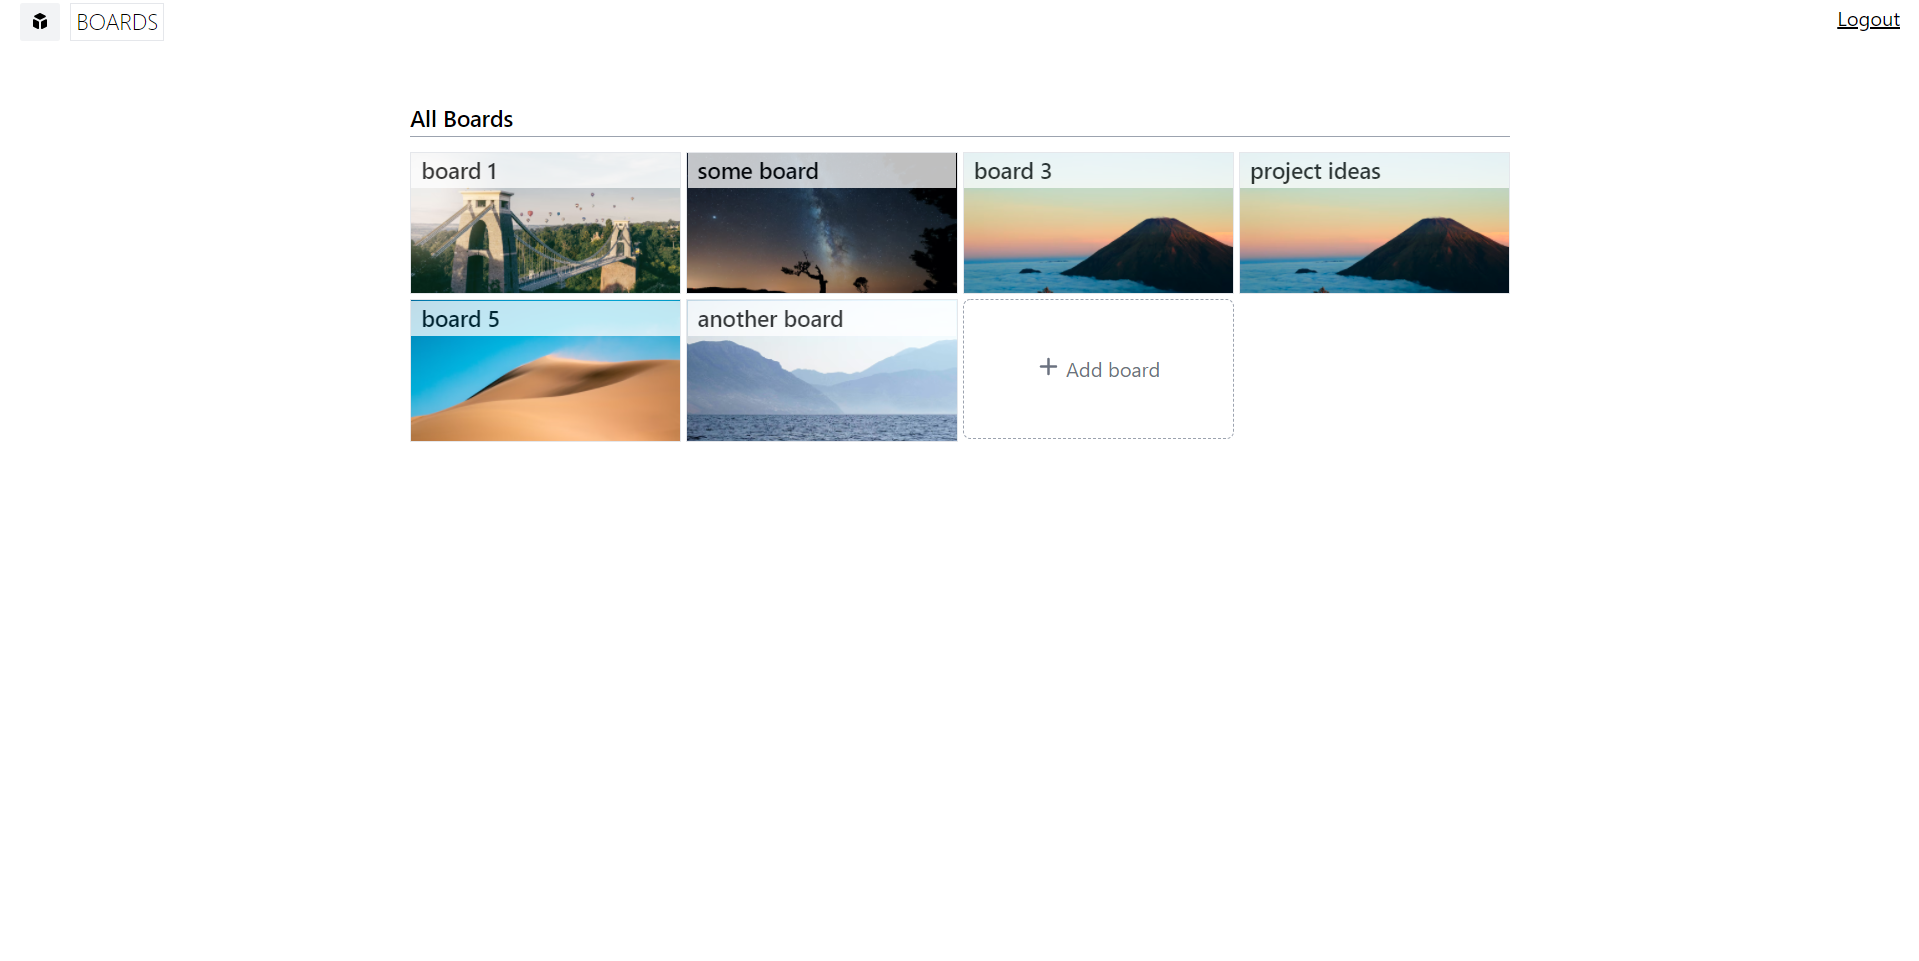
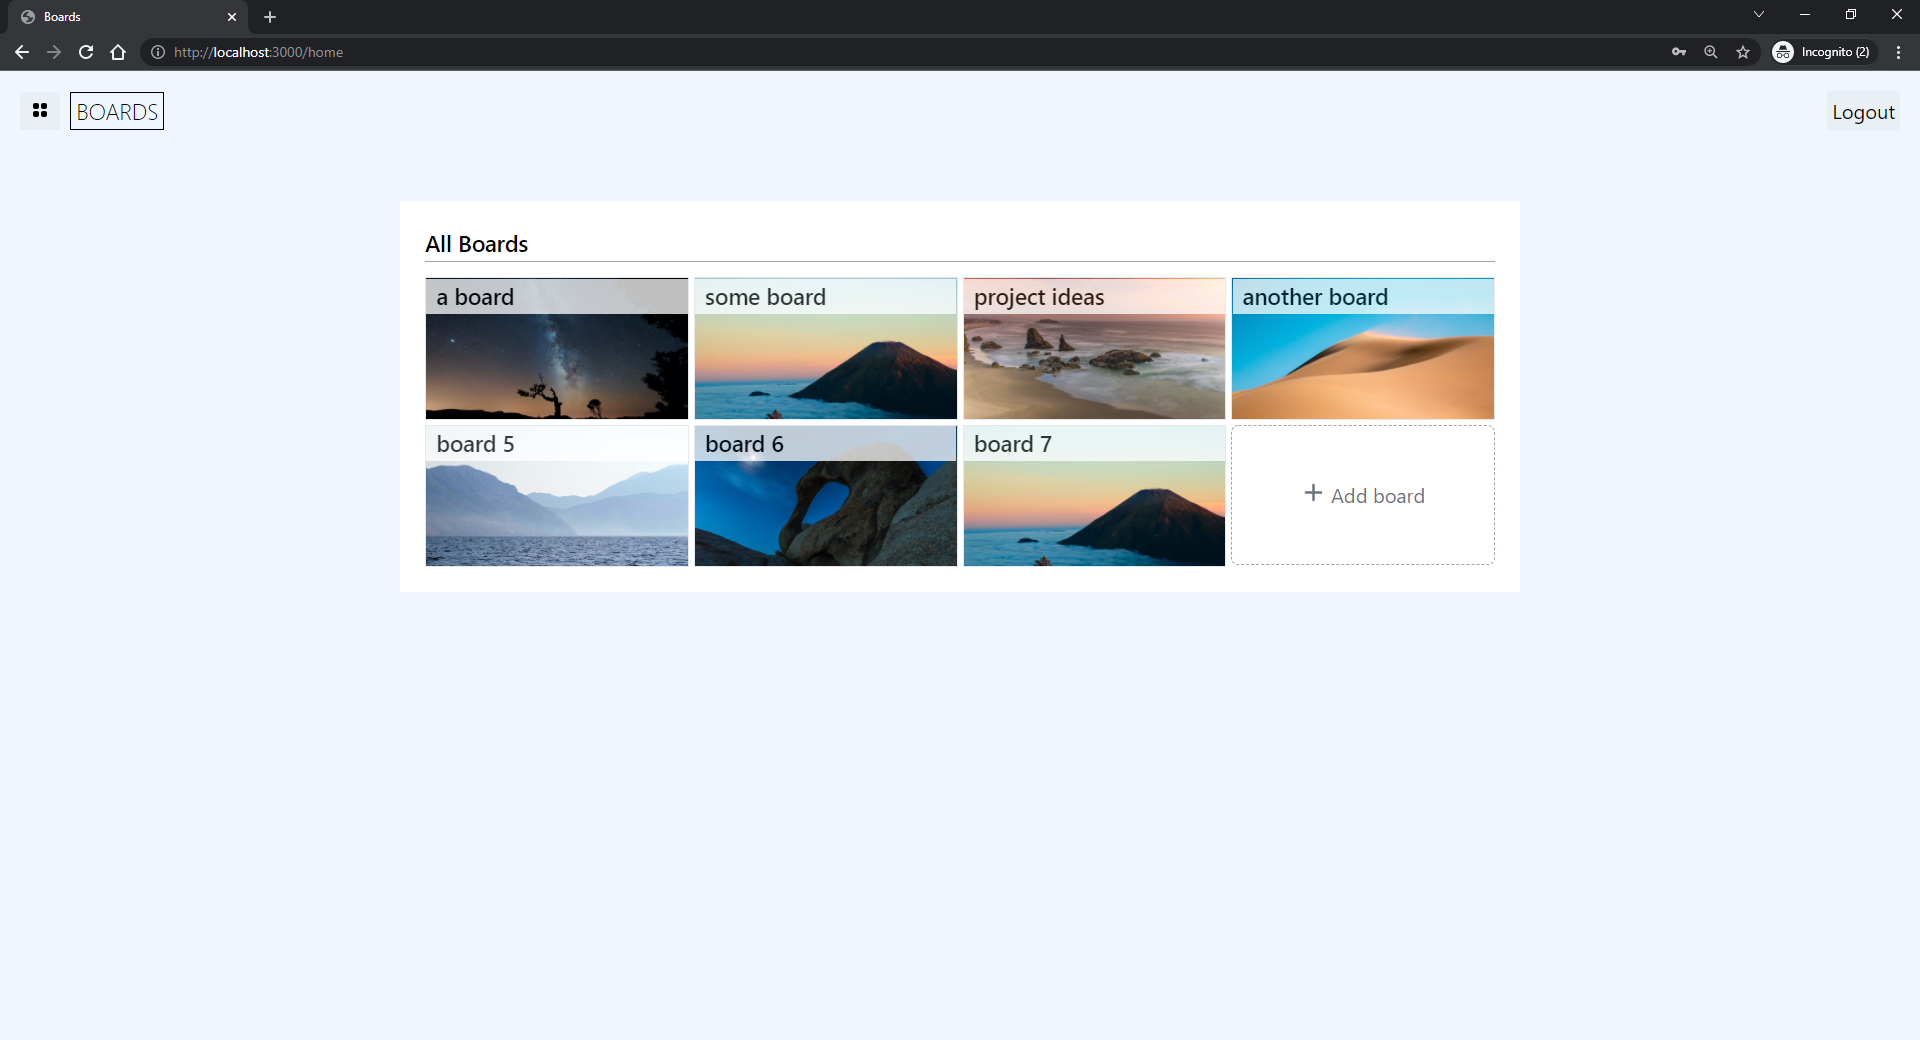
Updated home page and sign in page styling + reupload screenshots

Changed region(s): [[0.0, 0.0, 1.0, 0.5619], [0.6764, 0.4683, 0.7379, 0.4995]]

diff --git a/src/components/BaseHeader.js b/src/components/BaseHeader.js
@@ -1,4 +1,4 @@
-import { HiCube } from "react-icons/hi";
+import { HiViewGrid } from "react-icons/hi";
 import { useNavigate } from "react-router-dom";
 import { useAuth } from "../context/auth-context";
 import { logout } from "../services/authService";
@@ -12,17 +12,17 @@ const BaseHeader = ({ children, className }) => {
   };
 
   return (
-    <div className={`${className ? className : ""} header my-2 mx-4 flex justify-between g-2`}>
-      <div className="header-section w-5/6 flex gap-2 sm:items-center items-start">
+    <div className={`${className ? className : ""} header p-4 flex justify-between g-2`}>
+      <div className="header-section w-5/6 flex gap-2 items-center">
         <div onClick={() => navigate("/")} className="header-logo header-item" >
-          <HiCube className="mt-0.5 mb-1 mx-1"/>
+          <HiViewGrid className="mt-0.5 mb-1 mx-1"/>
         </div>
         {children}
       </div>
       <div className="header-section ">
         {uid && (
-          <div className="header-logout">
-          <button className="cursor-pointer underline" onClick={logoutHandler}>
+          <div className="header-logout header-item">
+          <button className="cursor-pointer" onClick={logoutHandler}>
             Logout
           </button>
           </div>

diff --git a/src/pages/Auth.js b/src/pages/Auth.js
@@ -53,12 +53,14 @@ const Auth = () => {
     return <Navigate to={state?.path || "/home"} />;
   }
   return (
-    <div className="mx-auto max-w-sm  mt-10 ">
-      <div className="p-2 border items-stretch">
-        <div className="flex flex-col gap-">
-          <div className="text-center mb-2">Enter your email and password</div>
+    <div className="bg-gray-100 h-full pt-7">
+      <div className="p-2 border mx-auto bg-white max-w-sm items-center">
+        <div className="text-center font-thin mb-4">
+          <p className="mt-3 mb-7 font-semibold">WELCOME!</p>
+          <p>Please enter your email and password</p>
+          </div>
 
-          <form className="flex flex-col gap-y-2" onSubmit={submitFormHandler}>
+          <form className="flex flex-col gap-y-3" onSubmit={submitFormHandler}>
             <input
               className="p-0.5 bg-gray-100"
               placeholder="email"
@@ -83,7 +85,7 @@ const Auth = () => {
               <p className="text-center text-sm mt-1 text-red-500">{error}</p>
             )}
           </div>
-        </div>
+ 
         <div className="my-6 text-center w-full flex border-b">
           <span className=" -mb-2 mx-auto bg-white px-1 text-sm font-light text-gray-400">
             or

diff --git a/src/App.js b/src/App.js
@@ -3,31 +3,21 @@ import {
   Routes,
   Route,
   Navigate,
-  useLocation,
 } from "react-router-dom";
 
 import BoardPage from "./pages/Board";
 import Home from "./pages/Home";
 import Auth from "./pages/Auth";
 import { useAuth } from "./context/auth-context";
-import Loading from "./components/Loading";
+import RequireAuth from "./components/RequireAuth";
 import Alert from "./components/Alert";
 import Error404 from "./pages/Error404";
 
-function RequireAuth({ children }) {
-  const location = useLocation();
-  const { uid, loading } = useAuth();
-  if (loading) return <Loading />;
-  if (uid) return children;
-  return <Navigate to="/auth" replace state={{ path: location.pathname }} />;
-}
-
 function App() {
   const { uid } = useAuth();
-
   return (
     <BrowserRouter>
-      <div className="app">
+      <div className="app h-screen">
         <Alert />
           <Routes>
             <Route

diff --git a/src/pages/Home.js b/src/pages/Home.js
@@ -41,14 +41,14 @@ export default function Home() {
   };
 
   return (
-    <>
+    <div className="bg-blue-50 h-full">
       {loading && <Loading />}
       {!loading && (
         <>
           <BaseHeader>
-            <span className="px-1 text-lg font-light border">BOARDS</span>
+            <span className="px-1 text-lg font-light border border-black">BOARDS</span>
           </BaseHeader>
-          <div className="board-list-container mt-10 p-2 mx-auto max-w-4xl">
+          <div className="board-list-container bg-white mt-10 p-5 mx-auto max-w-4xl">
             <div className="board-list-header mb-3 border-b border-gray-400">
               <h3 className="board-list-title text-lg font-semibold">
                 All Boards
@@ -88,6 +88,6 @@ export default function Home() {
           </div>
         </>
       )}
-    </>
+    </div>
   );
 }

diff --git a/src/components/RequireAuth.js b/src/components/RequireAuth.js
@@ -1,0 +1,14 @@
+import { Navigate, useLocation} from "react-router-dom"
+import Loading from "./Loading";
+
+import { useAuth } from "../context/auth-context";
+function RequireAuth({ children }) {
+    const location = useLocation();
+    const { uid, loading } = useAuth();
+    if (loading) return <Loading />;
+    if (uid) return children;
+    return <Navigate to="/auth" replace state={{ path: location.pathname }} />;
+}
+  
+
+export default RequireAuth

diff --git a/src/components/Loading.js b/src/components/Loading.js
@@ -1,5 +1,5 @@
 const Loading = () => {
-  return <div className="loading-wrapper bg-transparent h-screen w-full absolute top-0 left-0 ">
+  return <div className="loading-wrapper bg-blue-50 h-screen w-full absolute top-0 left-0 ">
     <div className="loading-content flex justify-center items-center h-full">
       <div className="lds-ring"><div></div><div></div><div></div><div></div></div>
     </div>

diff --git a/README.md b/README.md
@@ -1,8 +1,9 @@
 ## Todo Board App
 
 A Trello-inspired Todo App. Created mainly to practice React (Context API, React Router, useReducer).
-
 <br />
+
+![demo.gif](https://github.com/sarah157/todo-board-app/blob/main/screenshots/demo.gif)
 
 ### Features
 - Add, delete, and update boards, lists, and todo cards
@@ -18,4 +19,5 @@ A Trello-inspired Todo App. Created mainly to practice React (Context API, React
 ### Screenshots
 ![screenshot1.png](https://github.com/sarah157/todo-board-app/blob/main/screenshots/screenshot1.png)
 ![screenshot2.png](https://github.com/sarah157/todo-board-app/blob/main/screenshots/screenshot2.png)
+![screenshot3.png](https://github.com/sarah157/todo-board-app/blob/main/screenshots/screenshot3.png)
 <!-- ![demo.gif](https://github.com/sarah157/todo-board-app/blob/main/screenshots/demo.gif) -->
